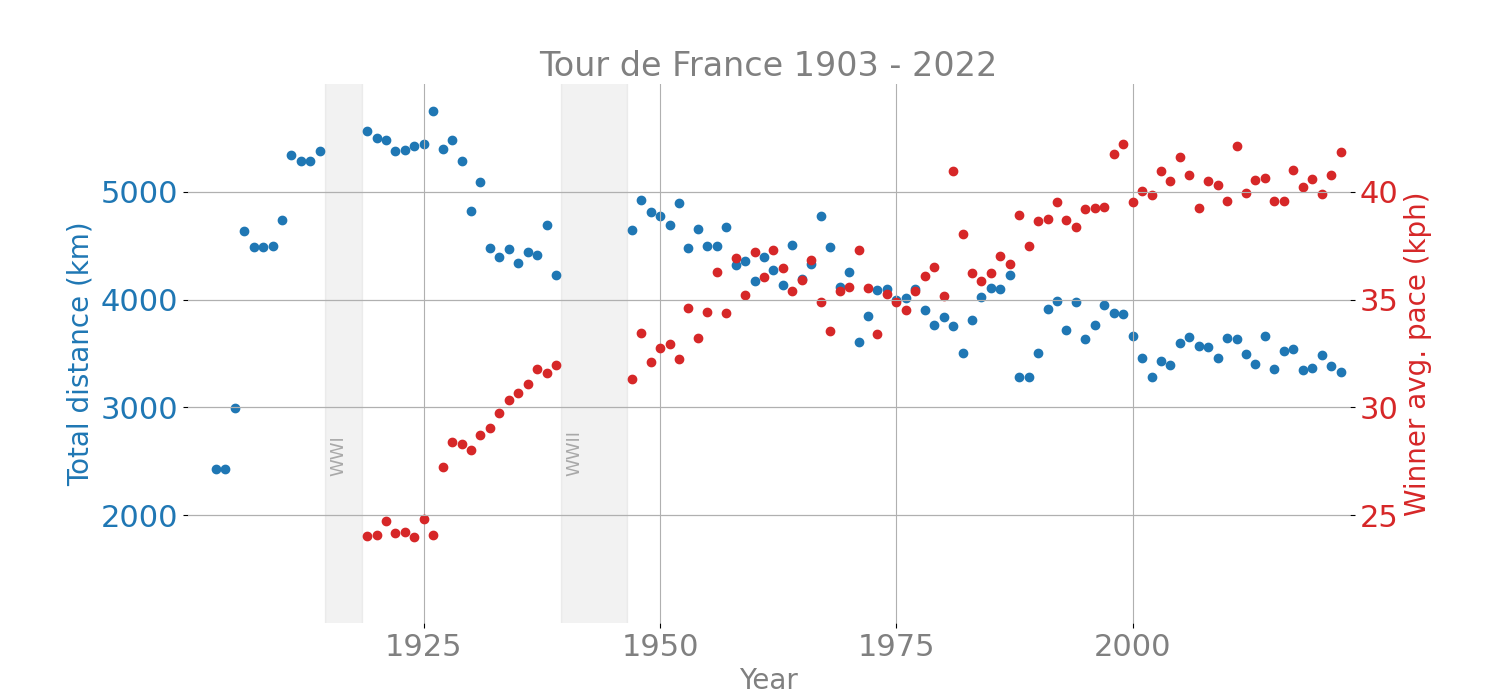
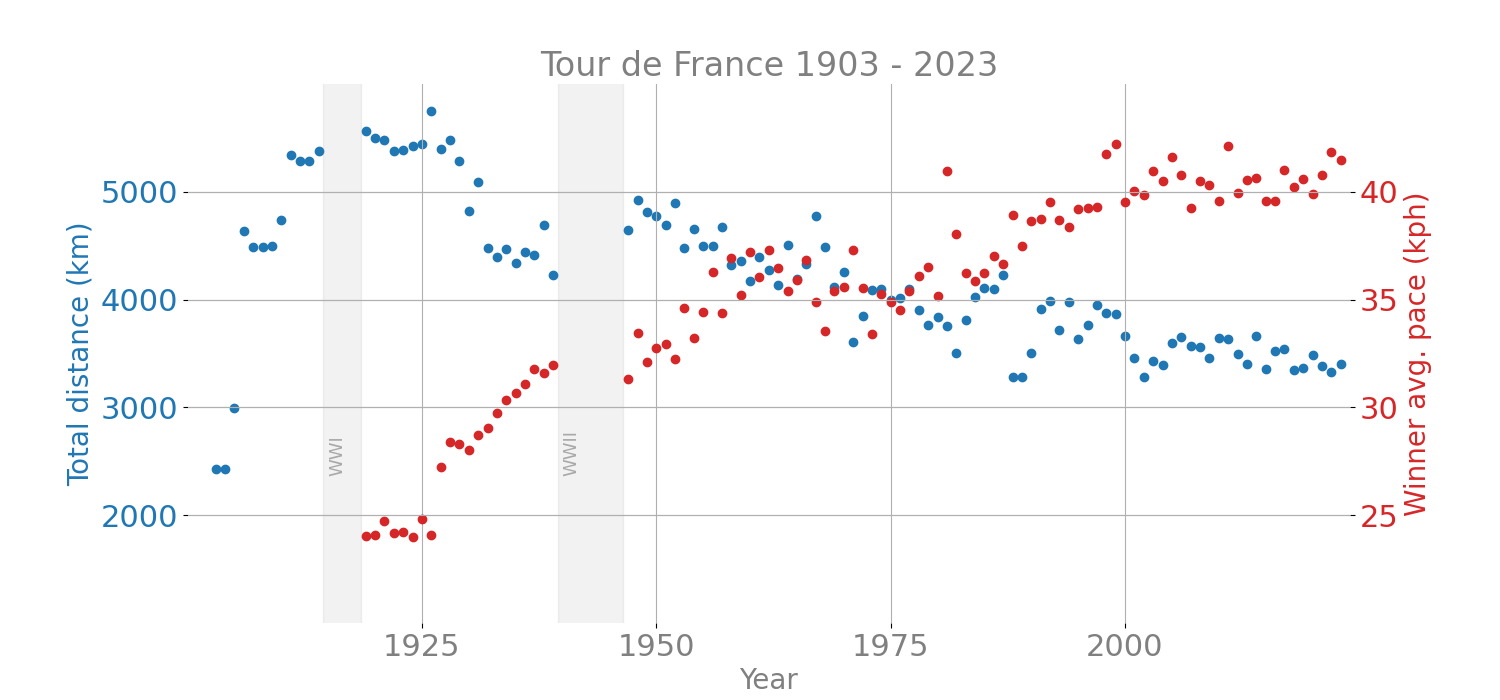
Adding 2023 Tour de France data.

diff --git a/letourdataset/Plotter.py b/letourdataset/Plotter.py
@@ -9,6 +9,7 @@ class Plotter:
         pass
 
     def plot(self, df: pd.DataFrame, saveas="data/TDF_Distance_And_Pace.png") -> None:
+        last_year = 2023
 
         year = np.unique(df["Year"])
         distance = df.groupby("Year")["Distance (km)"].mean(numeric_only=True).values
@@ -20,10 +21,10 @@ class Plotter:
         _, ax = plt.subplots(1, 1, figsize=(15, 7))
         ax.scatter(year, distance)  # type:ignore
 
-        ax.set_title("Tour de France 1903 - 2022", fontsize=24, color="gray")
+        ax.set_title(f"Tour de France 1903 - {last_year}", fontsize=24, color="gray")
 
         ax.set_xlabel("Year", fontsize=20, color="gray")
-        ax.set_xlim(1900, 2023)
+        ax.set_xlim(1900, last_year + 1)
         ax.set_xticks([1925, 1950, 1975, 2000])
         ax.set_xticklabels([1925, 1950, 1975, 2000], color="gray")
 
@@ -46,7 +47,7 @@ class Plotter:
         ax_twinx.text(1915, 27, "WWI", **args)
         ax_twinx.text(1940, 27, "WWII", **args)
 
-        ax_twinx.set_xlim(1900, 2023)
+        ax_twinx.set_xlim(1900, last_year + 1)
 
         ax_twinx.set_ylabel("Winner avg. pace (kph)", fontsize=20, color="tab:red")
         ax_twinx.set_ylim(20, 45)
